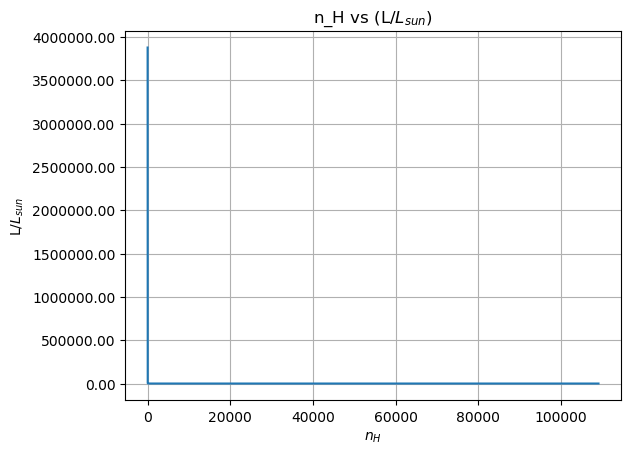
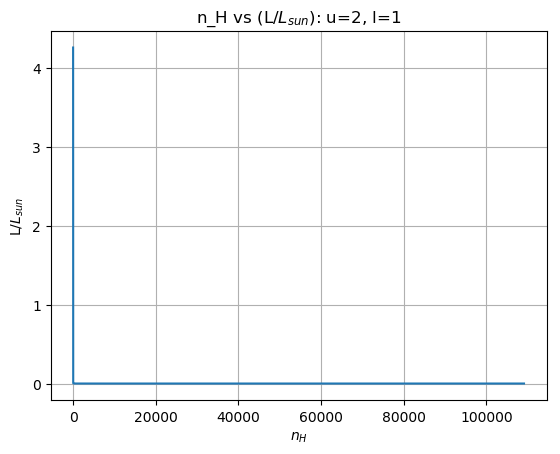
Change in units; plotting corrected
Units were streamlined- now all are cgs.
Plots were inconsistent, the are now corrected.

diff --git a/rad_transfer.py b/rad_transfer.py
@@ -3,9 +3,10 @@ import matplotlib.pyplot as plt
 import os
 import copy
 from matplotlib.ticker import FormatStrFormatter as ticks
+from scipy.special import erf
 
 from constants_lineRT import *
-from X_H2_self_shielding import *
+
 
 def get_filename(species):
     # filename is already given
@@ -51,7 +52,7 @@ def read_file(species):
     g = []
     for l in range(num_lvls):
         words = f.readline().split()
-        E.append(float(words[1]) * 100.*c_si*h_ev)  # cm^-1 -> eV
+        E.append(float(words[1]) * c_cgs*h_ev)  # cm^-1 -> eV
         g.append(float(words[2]))
     f.readline()
     num_trans = int(f.readline())  # number of radiative transistions
@@ -73,7 +74,7 @@ def read_file(species):
         for j in range(0, i):
             if A[i][j] != 0:
                 B[i][j] = A[i][j] * (c_cgs**2) / \
-                    (2*h_ev * (freq[i][j])**3)  # m2/(eV*s)
+                    (2*h_ev * (freq[i][j])**3)  # cm2/(eV*s)
                 B[j][i] = B[i][j] * g[i]/g[j]
     # number of collision partners in the data file
     f.readline()
@@ -119,7 +120,7 @@ def read_file(species):
     f.close()
     C_all = np.array(C_all)
     temps_all = np.array(temps_all)
-    return mu, num_lvls, np.array(E), np.array(g), freq, A, B, C_all, num_partners, temps_all
+    return mu, num_lvls, np.array(E), np.array(g), np.array(freq), np.array(A), np.array(B), C_all, num_partners, temps_all
 
 
 def partion_function(T, num_lvls, g, E):
@@ -137,16 +138,48 @@ def calc_lvl_pops_partion(T, num_lvls, g, E):
     return np.array(ni)
 
 
-def calc_extinction(T, n_i, n_j, nu_ij, B_ij, B_ji):
-    x = h_ev*nu_ij/(kb_ev*T)
-    #(h_ev/(4*np.pi)) * nu_ij * n_j * B_ji * (1.0 - np.exp(-1*x))
-    extinction = h_ev * nu_ij * (n_j*B_ji - n_i*B_ij) / (4*np.pi)
-    return extinction
+''' Integrated line profile over [freq_a, freq_b]
+    This is basically the integration of a Gaussian distribution
+    C sqrt(pi) int_p^q exp(-(C*x)**2) dx = 0.5 * (erf(q*C) - erf(p*C))
+    with C = 1/((sqrt(2)*sigma) and sigma = therm_a * freq_center/(sqrt(2)*c)
+'''
 
 
-def calc_emissivity(nu_ij, n_i, A_ij):
-    emissivity = h_ev * nu_ij * n_i * A_ij / (4*np.pi)
+def integrate_thermal_profile(freq_a, freq_b, freq_center, T, moleculeMass, v_los=0.):
+    # doppler shift
+    new_center = freq_center * (1. + v_los/c_cgs)
+    # shift integration limits so line is centered on around 0
+    a = freq_a - new_center
+    b = freq_b - new_center
+    # calc the thermal width of the line
+    therm_a = np.sqrt(2.*kb_cgs*T/(moleculeMass*mH_cgs))
+    # calc the integral
+    C = c_cgs / (therm_a * freq_center)
+    return 0.5 * (erf(b*C) - erf(a*C))
+
+
+def line_profile():
+    freqs = np.linspace(1.99999e9, 2.00001e9, 10)
+    freq_center = 2.e9
+    T = 10.
+    mu = 28.
+    therm_a = np.sqrt(2.*kb_cgs*T/(mu*mH_cgs))
+    tot = 0.
+    for f in range(len(freqs)-1):
+        part = integrate_thermal_profile(
+            freqs[f], freqs[f+1], freq_center, T, mu, 0.)
+        tot = tot + part
+    return tot
+
+
+def calc_emissivity(freq, ni_u, A_ul, phi_nu_ul):
+    emissivity = freq * ni_u * A_ul
     return emissivity
+
+
+def calc_extinction(freq, phi_nu_ul, ni_u, ni_l, B_ul, B_lu):
+    extinction = freq * ((ni_l * B_lu)-(ni_u * B_ul))
+    return extinction
 
 
 def calc_source_func(emissivity, extinction):
@@ -170,7 +203,7 @@ def make_pdf(s, s_bar, sigma_s):
 
 def calc_lambda_jeans(n_H):
     T_mean = 10.  # K
-    lambda_jeans = ((np.sqrt(kb_ev * T_mean / m_p)) /
+    lambda_jeans = ((np.sqrt(kb_cgs * T_mean / m_p)) /
                     np.sqrt(4 * np.pi * G_cgs * n_H * m_p))
     return lambda_jeans
 
@@ -184,7 +217,6 @@ def calc_n_LW(n_H, G_o, lambda_jeans):
 
 
 def calc_n_LW_ss(n_H, n_H2, G_o, lambda_jeans):
-    m_p = 1.672621777e-24   # g
     kappa = 1000 * m_p
     rad_field_outside = G_o  # in solar units
     exp_tau = np.exp(-kappa * n_H * lambda_jeans)
@@ -261,8 +293,7 @@ def calc_stats():
         n_LW_9, S_H2_9, N_H2_9 = calc_n_LW_ss(n_H, n_H2_8, G_o, lambda_jeans)
         X_H2_9 = calc_X_H2(n_H, Z, n_LW_9)
         n_H2_9 = n_H * X_H2_9
-        n_LW_10, S_H2_10, N_H2_10 = calc_n_LW_ss(
-            n_H, n_H2_9, G_o, lambda_jeans)
+        n_LW_10, S_H2_10, N_H2_10 = calc_n_LW_ss(n_H, n_H2_9, G_o, lambda_jeans)
         X_H2_10 = calc_X_H2(n_H, Z, n_LW_10)
         n_H2_10 = n_H * X_H2_10
         n_LW_ss, S_H2, N_H2 = calc_n_LW_ss(n_H, n_H2_10, G_o, lambda_jeans)
@@ -272,41 +303,48 @@ def calc_stats():
     return n_H, n_H2, X_H2, lambda_jeans
 
 
-def plotting(L, n_H, ni, source_func, extinction, emissivity, n_H2, X_H2, freq):
+def plot(L, n_H, ni, source_func, extinction, emissivity, n_H2, X_H2, freq):
+    T = 10 #K
     fig, ax = plt.subplots()
     i = 2
     j = 1
-    '''m = 1
+    for u in range(0, num_lvls):
+        for l in range(0, u):
+            if u-l==1:
+                plt.scatter(np.log10(freq[u][l]), np.log10(emissivity[u][l]), color='b')
+    plt.xlabel('log(freq)')
+    plt.ylabel('log(Emissivity)')
+    plt.grid(b=True, which='both', axis='both')
+    plt.title('log(freq) vs log(Emissivity)')
+    plt.savefig(os.path.join('log(freq)vslog(Emissivity)'.format()), dpi= 'figure', bbox_inches= 'tight')
+    plt.clf()
 
     for u in range(0, num_lvls):
         for l in range(0, u):
             if u-l==1:
-                plt.scatter(n, emissivity[u][l])
-    plt.xlabel('ni')
-    plt.ylabel('Emissivity')
+                plt.scatter(np.log10(freq[u][l]), np.log10(extinction[u][l]), color='b')
+    plt.xlabel('log(freq)')
+    plt.ylabel('log(extinction)')
     plt.grid(b=True, which='both', axis='both')
-    ax.yaxis.set_major_formatter(ticks('%.2f'))
-    plt.title('ni vs Emissivity')
-    plt.savefig(os.path.join('nivsEmissivity'.format()), dpi= 'figure', bbox_inches= 'tight')
-    plt.clf()'''
+    plt.title('log(freq) vs log(extinction)')
+    plt.savefig(os.path.join('log(freq)vslog(extinction)'.format()), dpi= 'figure', bbox_inches= 'tight')
+    plt.clf()
 
     # for m in range(0,1000):
-    plt.plot(n_H, L[i][j])
+    plt.plot(n_H, L[i][j]/L_sun)
     plt.xlabel('$n_H$')
     plt.ylabel('L/$L_{sun}$')
     plt.grid(b=True, which='both', axis='both')
-    ax.yaxis.set_major_formatter(ticks('%.2f'))
-    plt.title('n_H vs (L/$L_{sun}$)')
+    plt.title('n_H vs (L/$L_{sun}$): u=2, l=1')
     plt.savefig(os.path.join('n_HvsL.png'.format()),
                 dpi='figure', bbox_inches='tight')
     plt.clf()
 
-    plt.plot(np.log10(n_H), L[i][j])
+    plt.plot(np.log10(n_H), L[i][j]/L_sun)
     plt.xlabel('log($n_H$)')
     plt.ylabel('(L/$L_{sun}$)')
     plt.grid(b=True, which='both', axis='both')
-    ax.yaxis.set_major_formatter(ticks('%.2f'))
-    plt.title('log(n_H) vs (L/$L_{sun}$)')
+    plt.title('log(n_H) vs (L/$L_{sun}$): u=2, l=1')
     plt.savefig(os.path.join('log(n_H)vsL.png'.format()),
                 dpi='figure', bbox_inches='tight')
     plt.clf()
@@ -314,24 +352,50 @@ def plotting(L, n_H, ni, source_func, extinction, emissivity, n_H2, X_H2, freq):
     for u in range(0, num_lvls):
         for l in range(0, u):
             if u-l == 1:
-                plt.scatter(np.log10(freq[u][l]), source_func[u][l])
-    plt.xlabel('freq')
+                plt.scatter(np.log10(freq[u][l]), source_func[u][l], color='b')
+    plt.xlabel('log(freq)')
     plt.ylabel('$S_{nu}$')
     plt.grid(b=True, which='both', axis='both')
-    ax.yaxis.set_major_formatter(ticks('%.2f'))
-    plt.title('freq vs $S_{nu}$')
-    plt.savefig(os.path.join('freqvsS_nu'.format()),
+    plt.title('log(freq) vs $S_{nu}$')
+    plt.savefig(os.path.join('log(freq)vsS_nu'.format()),
                 dpi='figure', bbox_inches='tight')
     plt.clf()
 
-    plt.plot(np.log10(n_H), np.log10(L[i][j]))
+    for u in range(0, num_lvls):
+        for l in range(0, u):
+            if u-l == 1:
+                plt.scatter(np.log10(h_ev*freq[u][l]/kb_ev*T), source_func[u][l], color='b')
+    plt.xlabel('log(h*freq/KT)')
+    plt.ylabel('$S_{nu}$')
+    plt.grid(b=True, which='both', axis='both')
+    #ax.yaxis.set_major_formatter(ticks('%.2f'))
+    plt.title('log(h*freq/KT) vs $S_{nu}$')
+    plt.savefig(os.path.join('log(h_nu_KT)vsS_nu'.format()),
+                dpi='figure', bbox_inches='tight')
+    plt.clf()
+
+    '''for u in range(0, num_lvls):
+        for l in range(0, u):
+            if u-l == 1:
+                plt.plot(np.log10(ni[u]), np.log10(L[i][j]/L_sun), color='b')
+    plt.xlabel('log(ni)')
+    plt.ylabel('log(L/$L_{sun}$)')
+    plt.grid(b=True, which='both', axis='both')
+    plt.title('log(ni) vs log(L/$L_{sun}$)')
+    plt.savefig(os.path.join('log(ni)vslog(L).png'.format()))
+    plt.clf()'''
+
+    plt.plot(np.log10(n_H), np.log10(L[i][j]/L_sun))
     plt.xlabel('log(n_H)')
     plt.ylabel('log(L/$L_{sun}$)')
     plt.grid(b=True, which='both', axis='both')
-    ax.yaxis.set_major_formatter(ticks('%.1f'))
-    plt.title('log(n_H) vs log(L/$L_{sun}$)')
+    plt.title('log(n_H) vs log(L/$L_{sun}$): u=2, l=1')
     plt.savefig(os.path.join('log(n_H)vslog(L).png'.format()))
     plt.clf()
+
+    '''for u in range(0, num_lvls):
+        for l in range(0, u):
+            plt.scatter(np.log10(n_H), np.log10(L[u][l]/L_sun), color='b')'''
 
 
 if __name__ == '__main__':
@@ -339,25 +403,39 @@ if __name__ == '__main__':
     os.makedirs(path, exist_ok=True)
     os.chdir(path)
     T = 10  # temperature (K)
-    mu, num_lvls, E, g, freq, A, B, C, num_partners, temps_all = read_file('CO.txt')
+    mu, num_lvls, E, g, freq, A, B, C, num_partners, temps_all = read_file(
+        'CO.txt')
     source_func = np.zeros((num_lvls, num_lvls))
     extinction = np.zeros((num_lvls, num_lvls))
     emissivity = np.zeros((num_lvls, num_lvls))
+    phi_nu = np.zeros((num_lvls, num_lvls))
+    j_nu = np.zeros((num_lvls, num_lvls))
+    alpha_nu = np.zeros((num_lvls, num_lvls))
+    L1 = np.zeros((num_lvls, num_lvls, 1000))
     L = np.zeros((num_lvls, num_lvls, 1000))
     # calculate LTE occupation numbers with partition function method
     ni = calc_lvl_pops_partion(T, num_lvls, g, E)
-    for i in range(0, num_lvls):
-        for j in range(0, i):
-            extinction[i][j] = calc_extinction(
-                T, ni[i], ni[j], freq[i][j], B[i][j], B[j][i])
-            emissivity[i][j] = calc_emissivity(freq[i][j], ni[i], A[i][j])
-            source_func[i][j] = calc_source_func(
-                emissivity[i][j], extinction[i][j])
-    n_H, n_H2, X_H2, lambda_jeans = calc_stats()
-    for i in range(0, num_lvls):
-        for j in range(0, i):
-            for m in range(0, 1000):
-                L[i][j][m] = (4*np.pi) * ((lambda_jeans[m]) **
-                                          2) * source_func[i][j] / L_sun
 
-    plotting(L, n_H, ni, source_func, extinction, emissivity, n_H2, X_H2, freq)
+    a = np.sqrt(2*kb_cgs*T/(mu*m_p))
+    u = 0  # UPPER LEVEL
+    l = 0  # LOWER LEVEL
+    ctr = 0
+    for u in range(0, num_lvls):
+        for l in range(0, u):
+            if u-l == 1:
+                ctr = ctr + 1
+                phi_nu[u][l] = line_profile()
+                j_nu[u][l] = calc_emissivity(
+                    freq[u][l], ni[u], A[u][l], phi_nu[u][l])
+                alpha_nu[u][l] = calc_extinction(
+                    freq[u][l], phi_nu[u][l], ni[u], ni[l], B[u][l], B[l][u])
+                source_func[u][l] = calc_source_func(
+                    j_nu[u][l], alpha_nu[u][l])
+    n_H, n_H2, X_H2, lambda_jeans = calc_stats()
+    for u in range(0, num_lvls):
+        for l in range(0, u):
+            for m in range(0, 1000):
+                L[u][l][m] += (4*np.pi) * ((lambda_jeans[m])**2) * j_nu[u][l]
+
+    plot(L, n_H, ni, source_func, alpha_nu,
+         j_nu, n_H2, X_H2, freq)

diff --git a/X_H2_self_shielding.py b/X_H2_self_shielding.py
@@ -197,7 +197,7 @@ def CO_density():
     n_CO = calc_n_CO(n_H, X_CO)
 
     plotting(n_H, pdf, lambda_jeans, X_H2, X_CO, n_CO, S_H2, N_H2)
-    return n_H, n_H2, X_H2, n_LW, n_LW_ss, S_H2, N_H2, n_LW_1, n_LW_2, n_LW_3, n_LW_4, n_LW_5, n_LW_6, n_LW_7, n_LW_8, n_LW_9, n_LW_10, X_H2_1, X_H2_2, X_H2_3, X_H2_4, X_H2_5, X_H2_6, X_H2_7, X_H2_8, X_H2_9, X_H2_10, n_H2_1, n_H2_2, n_H2_3, n_H2_4, n_H2_5, n_H2_6, n_H2_7, n_H2_8, n_H2_9, n_H2_10, X_H2_a, n_H2_a
+    return n_H, pdf, n_H2, X_H2, n_LW, n_LW_ss, S_H2, N_H2, X_H2_a, n_H2_a, lambda_jeans, X_CO, n_CO
 
 def plotting(n_H, pdf, lambda_jeans, X_H2, X_CO, n_CO, S_H2, N_H2):
     plt.plot(np.log10(n_H), pdf)
@@ -260,4 +260,4 @@ if __name__=='__main__':
     path = 'for X_H2_self_shielding'
     os.makedirs(path, exist_ok=True)
     os.chdir(path)
-    n_H, n_H2, X_H2, n_LW, n_LW_ss, S_H2, N_H2, n_LW_1, n_LW_2, n_LW_3, n_LW_4, n_LW_5, n_LW_6, n_LW_7, n_LW_8, n_LW_9, n_LW_10, X_H2_1, X_H2_2, X_H2_3, X_H2_4, X_H2_5, X_H2_6, X_H2_7, X_H2_8, X_H2_9, X_H2_10, n_H2_1, n_H2_2, n_H2_3, n_H2_4, n_H2_5, n_H2_6, n_H2_7, n_H2_8, n_H2_9, n_H2_10, X_H2_a, n_H2_a = CO_density()
+    n_H, pdf, n_H2, X_H2, n_LW, n_LW_ss, S_H2, N_H2, X_H2_a, n_H2_a, lambda_jeans, X_CO, n_CO = CO_density()

diff --git a/constants_lineRT.py b/constants_lineRT.py
@@ -25,5 +25,7 @@ yr_cgs = 3.1556926e7 #s                   # 1 year
 
 MSUN = 1.989e30 #kg                    # solar mass
 L_sun = 2.3892497766e+45 #eV/s         #one nominal solar luminosity
+L_sun_watts = 3.826e26 #Watts = J/s    #one nominal solar luminosity
 
-eV = 6.241509e18 #J
+eV = 1.60217733e-19 #J
+J = 6.241509e18 #eV
